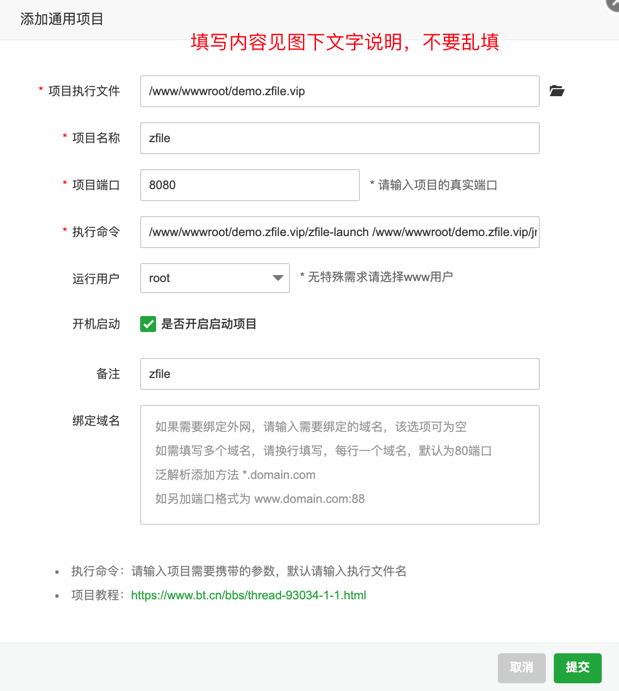
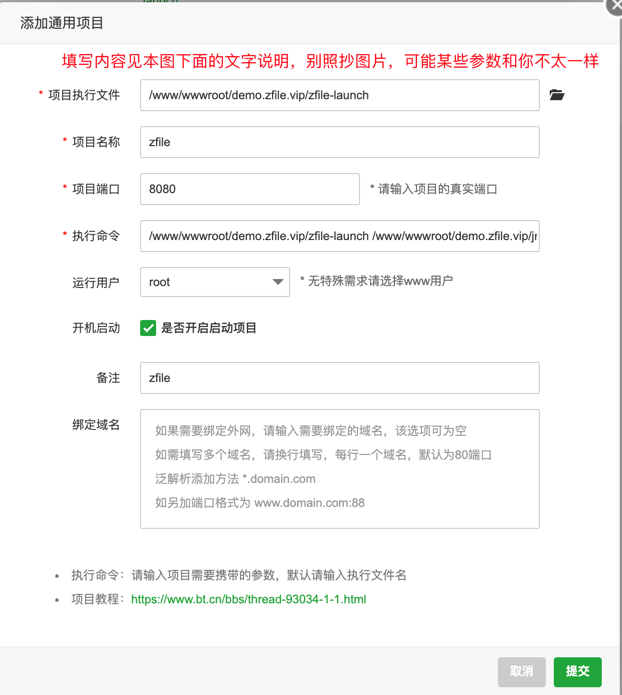
修改捐赠版宝塔部署教程，避免歧义。

diff --git a/component/ComputeCommand.js b/component/ComputeCommand.js
@@ -11,7 +11,12 @@ function ComputeCommand() {
     }, []);
 
     const handleCalculate = () => {
-        const path = value.trim() || '/www/wwwroot/demo.zfile.vip'; // 如果输入框为空，则使用默认值
+        // 如果 value 尾缀包含 /zfile-launch 则去除
+        let path = value.trim();
+        if (value.endsWith('/zfile-launch')) {
+            path = value.substring(0, value.length - 13);
+        }
+        path = path || '/www/wwwroot/demo.zfile.vip'; // 如果输入框为空，则使用默认值
         const command = `${path}/zfile-launch ${path}/jre/bin/java -jar ${path}/zfile-pro-release.xjar --spring.config.location=file:${path}/application.properties`; // 根据路径计算命令
         setResult(command); // 将计算出的命令设置为计算结果
     };
